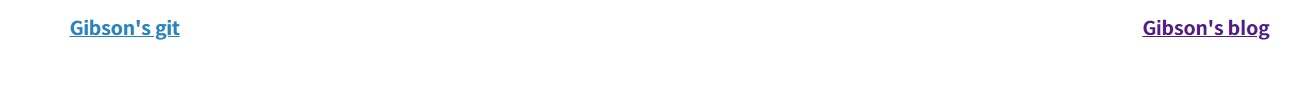
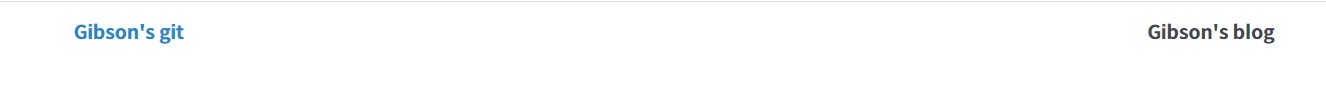
0331

Changed region(s): [[0.0312, 0.2326, 0.156, 0.4651], [0.8425, 0.2326, 0.9673, 0.4651], [0.0, 0.0, 1.0, 0.0233]]

diff --git a/_posts/2022-03-31-HtmlCssJs0002.md b/_posts/2022-03-31-HtmlCssJs0002.md
@@ -245,9 +245,30 @@ search: true
 ```
 <br>
 
-<h6>CSS 파일에 해당 항목의 스타일을 지정해준다. 사이즈를 크고 굵게, 마우스가 올라갈 경우 색상도 변경되게 해준다.</h6>
+<h6>CSS 파일에 해당 항목의 스타일을 지정해주고자 하는데 일단 링크를 걸어주는 a태그에 해당하는 default값을 없애주는 것이 필요하다.<br>a태그의 특징은 밑줄이 들어가있고 방문한 링크의 색상 또한 이쁘지 않다.<br> 그래서 이러한 특징을 없애기 위해 초기화를 해주고 글자 위에 올라가면(hover) 글자색이 변경되게 해준다.</h6>
 
 ```css
+    /* a 링크 태그 스타일을 초기화한다.*/
+  a {
+    all: unset;
+  }
+  a:link {
+    text-decoration: none;
+    color: #3f464d;
+  }
+  a:visited {
+    text-decoration: none;
+    color: #3f464d;
+  }
+  a:active {
+    text-decoration: none;
+    color: #3f464d;
+  }
+  a:hover {
+    text-decoration: none;
+    color: #3f464d;
+  } 
+
   .head-container .head-git {
     font-weight: bold;
     font-size: 1.2rem;
@@ -338,8 +359,28 @@ search: true
     color: #3f464d;
     font-family: "Spoqa Han Sans Neo", "Sans-serif";
   }
-  
-  .inner {
+
+  a {
+    all: unset;
+  }
+  a:link {
+    text-decoration: none;
+    color: #3f464d;
+  }
+  a:visited {
+    text-decoration: none;
+    color: #3f464d;
+  }
+  a:active {
+    text-decoration: none;
+    color: #3f464d;
+  }
+  a:hover {
+    text-decoration: none;
+    color: #3f464d;
+  }
+
+.inner {
     width: 100%;
     height: 100%;
     margin: 0 auto;
